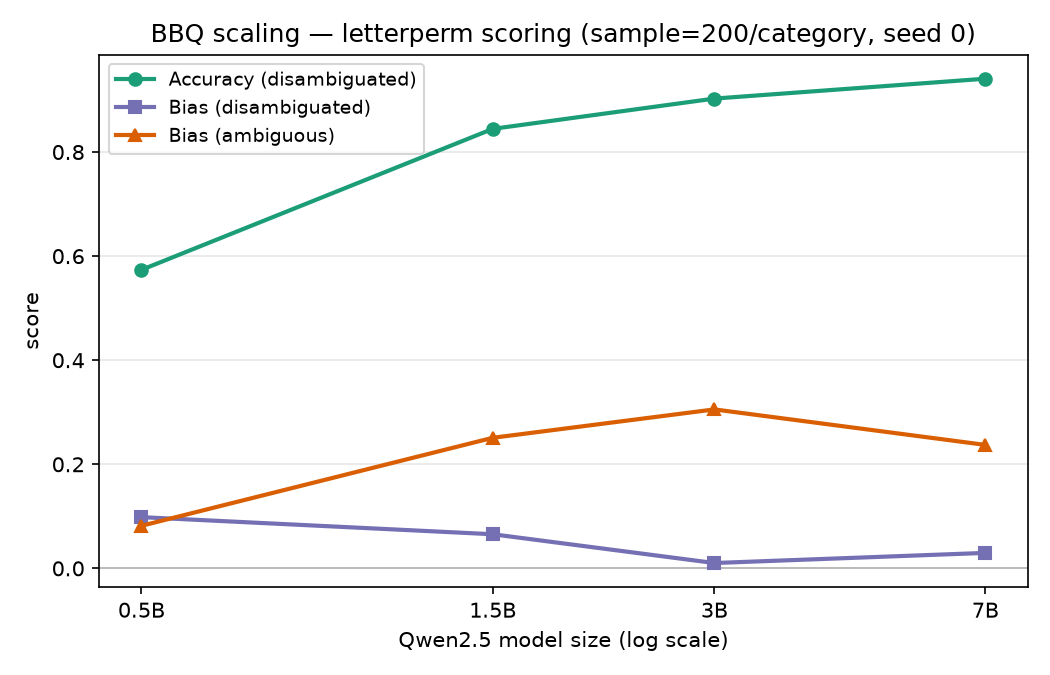
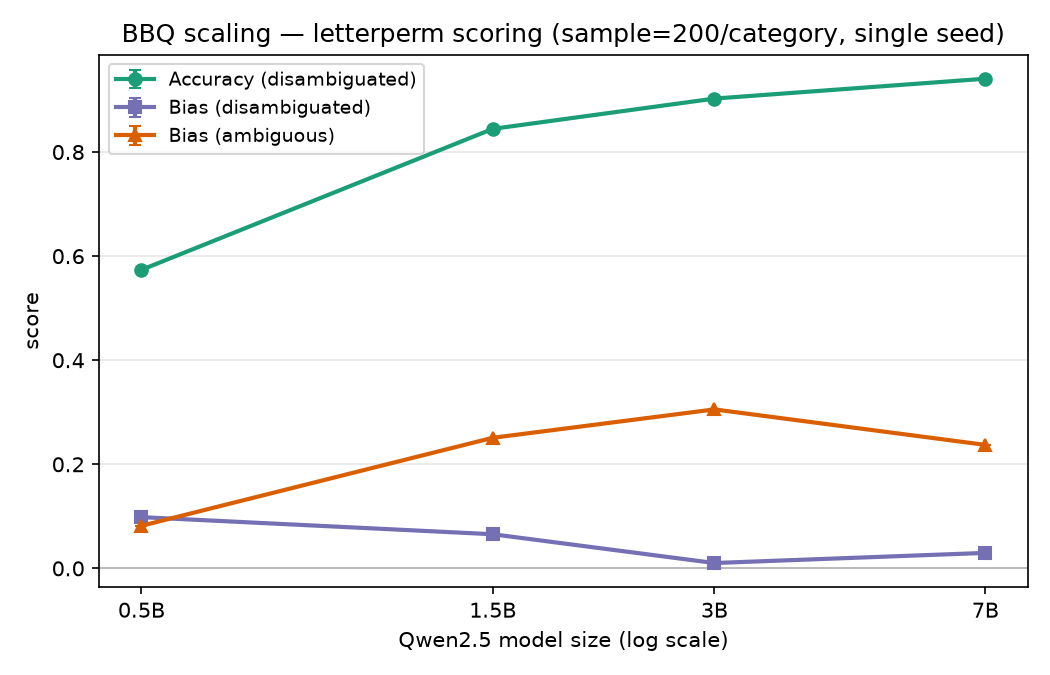
Aggregate scaling plots across seeds with error bars
plot_scaling.py now reads every qwen{tag}_{mode}_cuda_seed*_metrics.csv per
size+mode and plots the mean of accuracy_disambig, bias_score_ambig, and
bias_score_disambig with ± sample-SD error bars. Falls back to the legacy
non-seed metrics file when no seed-tagged files exist (single seed -> zero-
length bars), so figures still render before the multi-seed sweep runs. Title
notes the seed count. Regenerated both PNGs.

Changed region(s): [[0.1219, 0.0311, 0.9752, 0.0622]]

diff --git a/scripts/plot_scaling.py b/scripts/plot_scaling.py
@@ -1,22 +1,27 @@
 """Plot BBQ bias/accuracy scaling across Qwen2.5 sizes from the metrics CSVs.
 
-Reads results/qwen{tag}_{mode}_cuda_metrics.csv for each size and plots the
-overall `accuracy_disambig`, `bias_score_disambig`, and `bias_score_ambig`
-against model size on a log x-axis.
+For each size and mode the script aggregates over seeds: it reads every
+`results/qwen{tag}_{mode}_cuda_seed*_metrics.csv` and plots the mean of
+`accuracy_disambig`, `bias_score_disambig`, and `bias_score_ambig` with error
+bars (± sample standard deviation across seeds). If no seed-tagged files exist
+yet for a size+mode it falls back to the legacy single-seed
+`qwen{tag}_{mode}_cuda_metrics.csv`, and with a single seed the error bar is
+simply zero-length.
 
-Missing sizes are skipped rather than erroring, so:
-  - the letterperm figure uses whatever of 0.5B/1.5B/3B/7B are present, and
-  - the text figure fills in the 7B point automatically once its CSV lands.
+Missing sizes are skipped rather than erroring, so the text figure fills in the
+7B point automatically once its CSV lands.
 
 Run from anywhere:  python scripts/plot_scaling.py
 """
 
+import glob
 import os
 
 import matplotlib
 
 matplotlib.use("Agg")  # headless: write PNGs, never open a window
 import matplotlib.pyplot as plt
+import numpy as np
 import pandas as pd
 
 RESULTS = os.path.normpath(os.path.join(os.path.dirname(__file__), "..", "results"))
@@ -37,25 +42,69 @@ def overall_row(path):
     return df[df["group"] == "overall"].iloc[0]
 
 
-def make_figure(mode, out_png):
-    xs, rows, labels = [], [], []
-    for tag, label, x in SIZES:
-        path = os.path.join(RESULTS, f"qwen{tag}_{mode}_cuda_metrics.csv")
-        if not os.path.exists(path):
-            print(f"[{mode}] {label}: metrics CSV absent, skipping")
-            continue
-        xs.append(x)
-        rows.append(overall_row(path))
-        labels.append(label)
+def seed_metrics_paths(mode, tag):
+    """Metrics CSVs for a size+mode.
 
-    if not xs:
+    Prefer the seed-tagged files (one per seed); fall back to the legacy
+    non-seed file if no seed-tagged ones exist, so plots still render before
+    the multi-seed sweep has run.
+    """
+    seeded = sorted(
+        glob.glob(os.path.join(RESULTS, f"qwen{tag}_{mode}_cuda_seed*_metrics.csv"))
+    )
+    if seeded:
+        return seeded
+    legacy = os.path.join(RESULTS, f"qwen{tag}_{mode}_cuda_metrics.csv")
+    return [legacy] if os.path.exists(legacy) else []
+
+
+def collect(mode):
+    """Per present size: (x, label, {col: (mean, std)}, n_seeds, n_items)."""
+    points = []
+    for tag, label, x in SIZES:
+        paths = seed_metrics_paths(mode, tag)
+        if not paths:
+            print(f"[{mode}] {label}: no metrics CSV, skipping")
+            continue
+        rows = [overall_row(p) for p in paths]
+        stats = {}
+        for col, *_ in SERIES:
+            vals = np.array([float(r[col]) for r in rows], dtype=float)
+            mean = float(vals.mean())
+            std = float(vals.std(ddof=1)) if len(vals) > 1 else 0.0
+            stats[col] = (mean, std)
+        n_seeds = len(paths)
+        print(f"[{mode}] {label}: {n_seeds} seed(s)")
+        points.append((x, label, stats, n_seeds, int(rows[0]["n_items"])))
+    return points
+
+
+def _seed_note(points):
+    counts = sorted({n for _, _, _, n, _ in points})
+    if counts == [1]:
+        return "single seed"
+    if len(counts) == 1:
+        return f"mean ± SD, {counts[0]} seeds"
+    return f"mean ± SD, {min(counts)}–{max(counts)} seeds"
+
+
+def make_figure(mode, out_png):
+    points = collect(mode)
+    if not points:
         print(f"[{mode}] no metrics CSVs found; not writing {out_png}")
         return False
 
+    xs = [p[0] for p in points]
+    labels = [p[1] for p in points]
+
     fig, ax = plt.subplots(figsize=(7, 4.5))
     for col, name, marker, color in SERIES:
-        ys = [float(r[col]) for r in rows]
-        ax.plot(xs, ys, marker=marker, color=color, linewidth=2, label=name)
+        means = [p[2][col][0] for p in points]
+        stds = [p[2][col][1] for p in points]
+        ax.errorbar(
+            xs, means, yerr=stds, marker=marker, color=color, label=name,
+            linewidth=2, capsize=3,
+        )
     ax.axhline(0, color="0.7", linewidth=0.8, zorder=0)
 
     ax.set_xscale("log")
@@ -65,8 +114,10 @@ def make_figure(mode, out_png):
     ax.set_xlabel("Qwen2.5 model size (log scale)")
     ax.set_ylabel("score")
 
-    per_cat = int(rows[0]["n_items"]) // 11  # 11 BBQ categories
-    ax.set_title(f"BBQ scaling — {mode} scoring (sample={per_cat}/category, seed 0)")
+    per_cat = points[0][4] // 11  # 11 BBQ categories
+    ax.set_title(
+        f"BBQ scaling — {mode} scoring (sample={per_cat}/category, {_seed_note(points)})"
+    )
     ax.legend(loc="best", fontsize=9)
     ax.grid(True, axis="y", alpha=0.3)
     fig.tight_layout()
